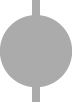
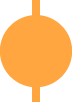
Small design tweaks in Commits' timeline.

diff --git a/lungo.js/lungo.theme.gitbucket.css b/lungo.js/lungo.theme.gitbucket.css
@@ -324,3 +324,6 @@ pre {
   background-repeat: no-repeat;
   border-bottom: 1px dashed #E1E1E1;
 }
+#repo-commits li:last-child {
+  border-bottom: none;
+}
